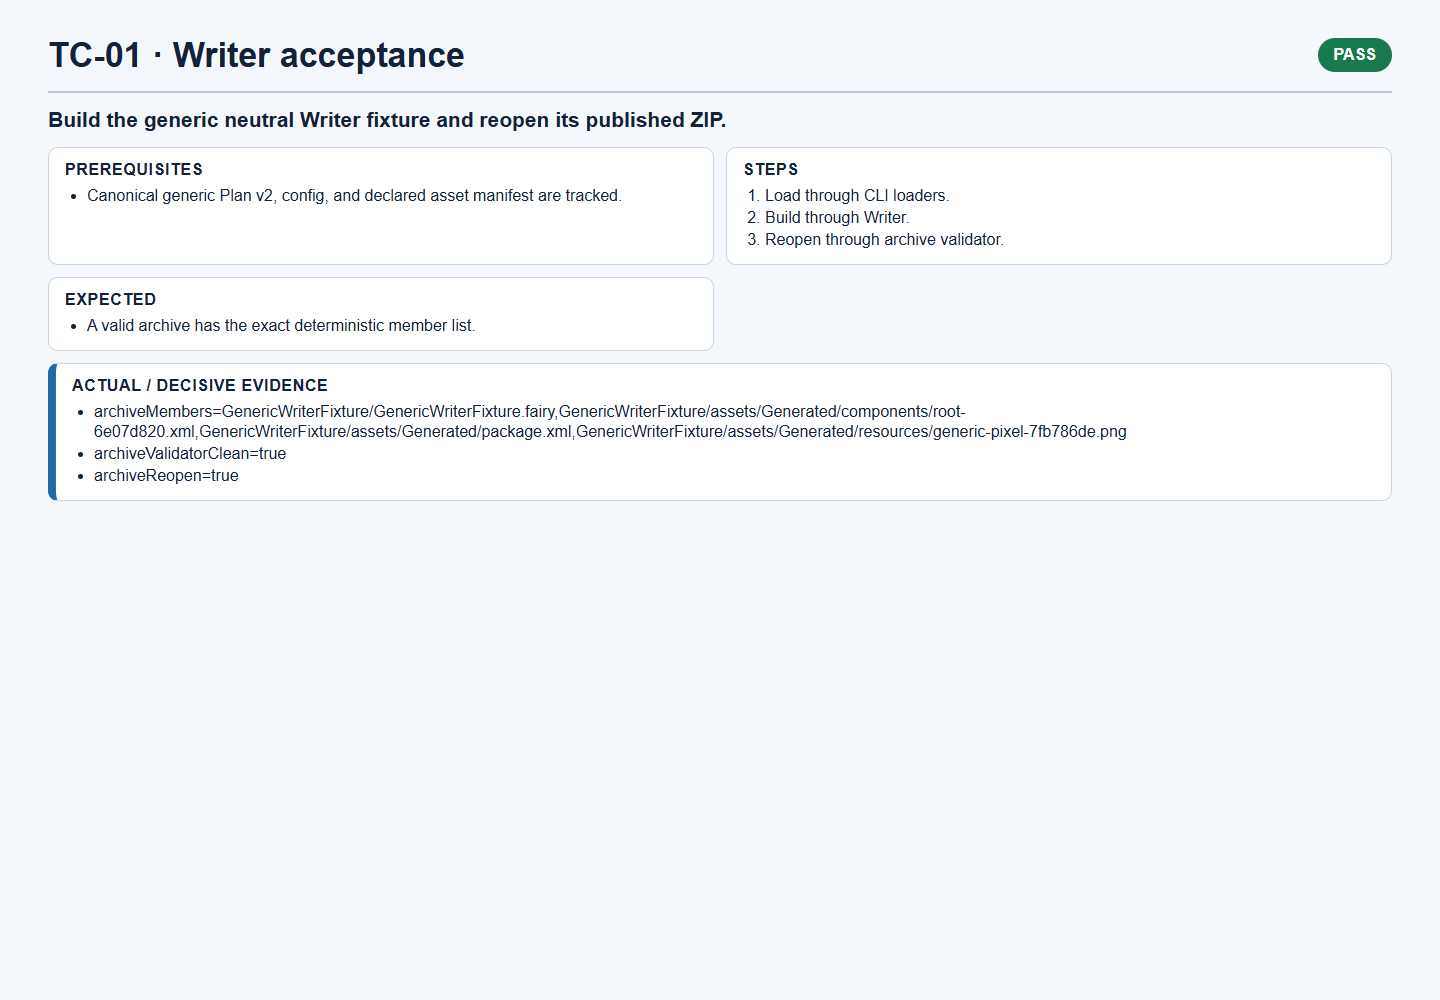
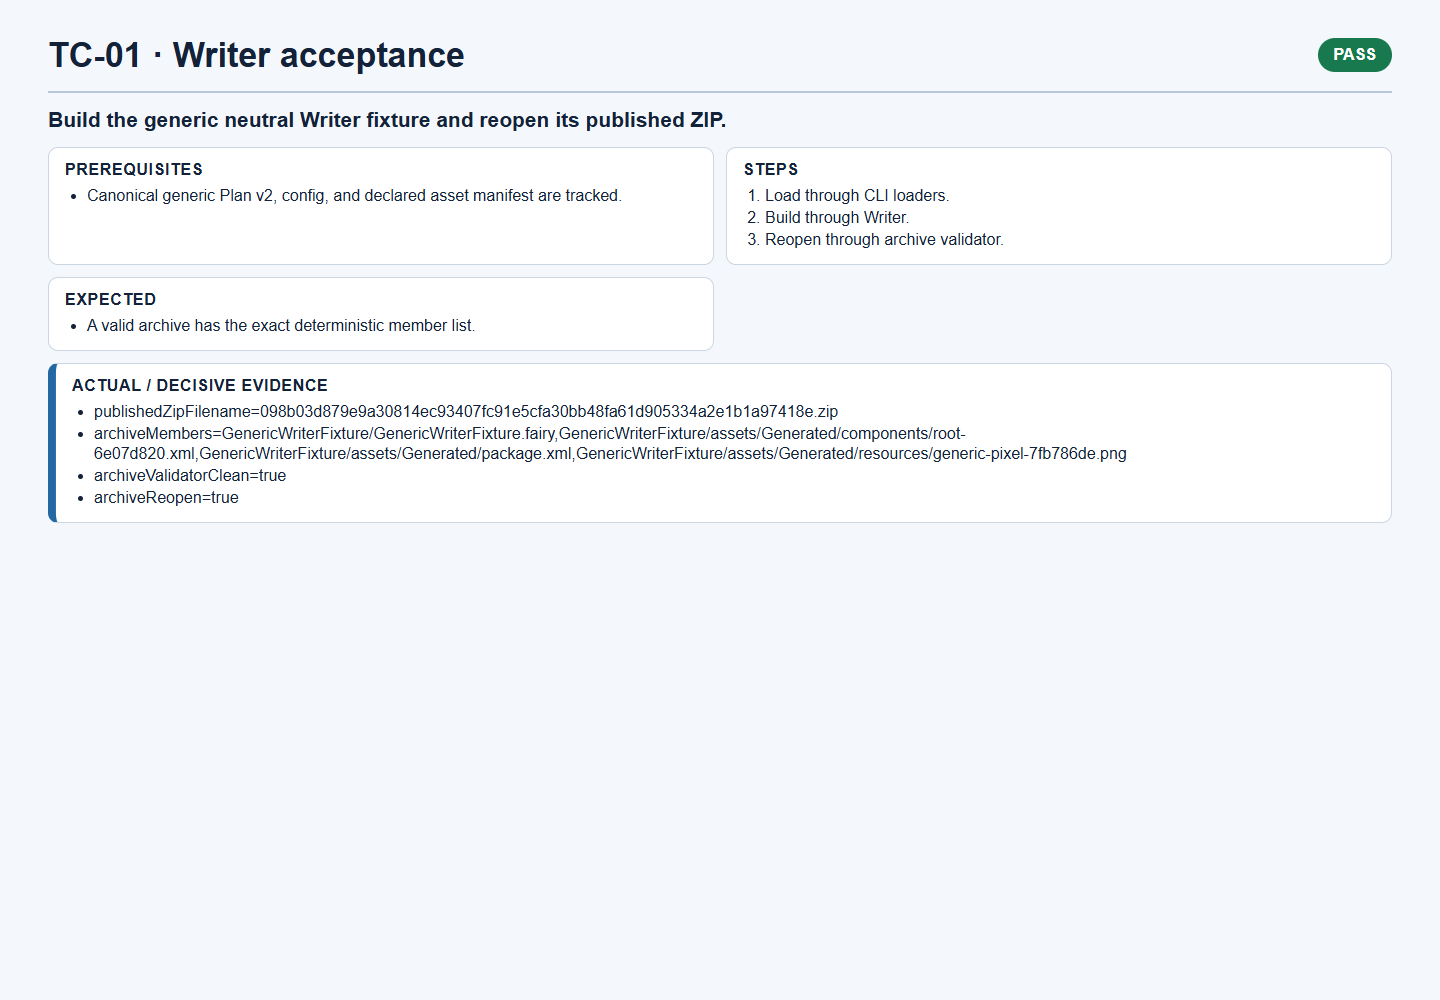
test: refresh Writer acceptance evidence

Changed region(s): [[0.0312, 0.403, 0.7812, 0.527]]

diff --git a/docs/validation/2026-08-20-new-project-writer-test-acceptance.md b/docs/validation/2026-08-20-new-project-writer-test-acceptance.md
@@ -33,13 +33,14 @@ Build the generic neutral Writer fixture and reopen its published ZIP.
 
 ### Actual
 
+- publishedZipFilename=098b03d879e9a30814ec93407fc91e5cfa30bb48fa61d905334a2e1b1a97418e.zip
 - archiveMembers=GenericWriterFixture/GenericWriterFixture.fairy,GenericWriterFixture/assets/Generated/components/root-6e07d820.xml,GenericWriterFixture/assets/Generated/package.xml,GenericWriterFixture/assets/Generated/resources/generic-pixel-7fb786de.png
 - archiveValidatorClean=true
 - archiveReopen=true
 
 Screenshot: [TC-01 evidence](evidence/new-project-writer/tc-01.png)
 
[2 lines of base64/hex data omitted]
 
 ## TC-02 — PASS
 
@@ -102,10 +103,18 @@ Record the fresh neutral FairyGUI Editor acceptance transcript.
 - modalObserved=false
 - stateScreenshot=unsupported(0x80004002)
 - fileHashParity=4/4
+- transcript=2026-08-20-fgui-6.1.4-new-project-editor-transcript.json
 
 Screenshot: [AC-01 evidence](evidence/new-project-writer/ac-01.png)
 
[2 lines of base64/hex data omitted]
+
+Durable transcript: [AC-01 durable transcript](2026-08-20-fgui-6.1.4-new-project-editor-transcript.json)
+
[4 lines of base64/hex data omitted]
 
 ## TC-03 — PASS
 
@@ -158,12 +167,15 @@ Reject an oversized sparse asset before any Pillow probe or archive publication.
 ### Actual
 
 - rejection=ASSET_DIRECTORY
-- pillowProbeCalled=false
+- maxAssetPayloadBytes=67108864
+- sparseDeclaredBytes=67108865
+- oversizedAssetReadCalled=false
+- rejectedBeforeFullRead=true
 - zipPublished=false
 
 Screenshot: [TC-04 evidence](evidence/new-project-writer/tc-04.png)
 
[2 lines of base64/hex data omitted]
 
 ## TC-05 — PASS
 
